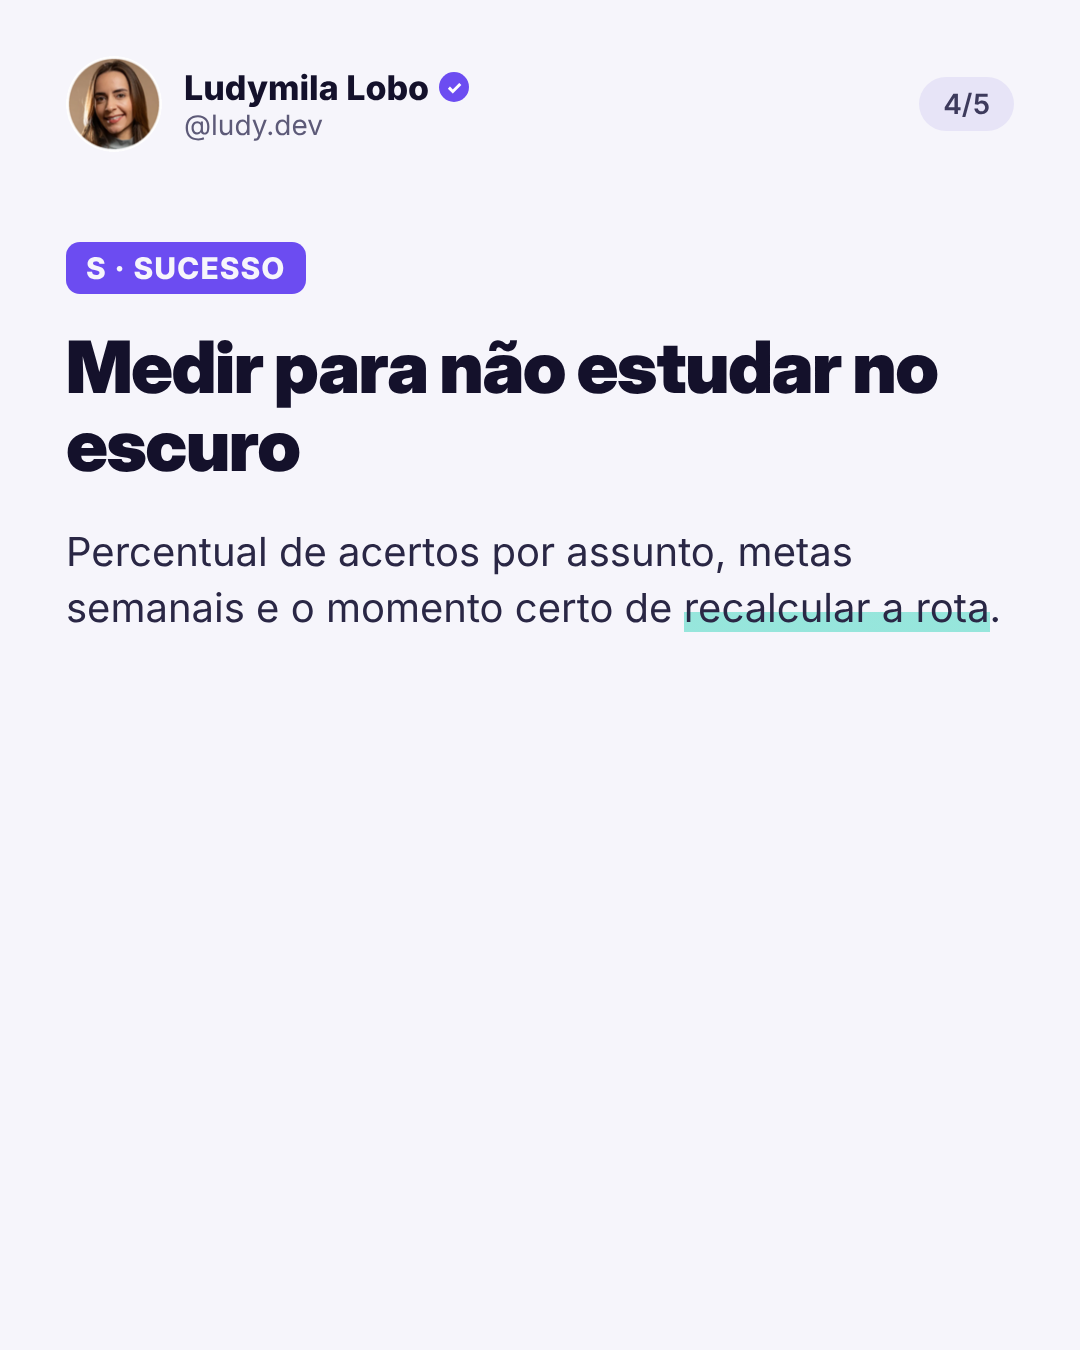
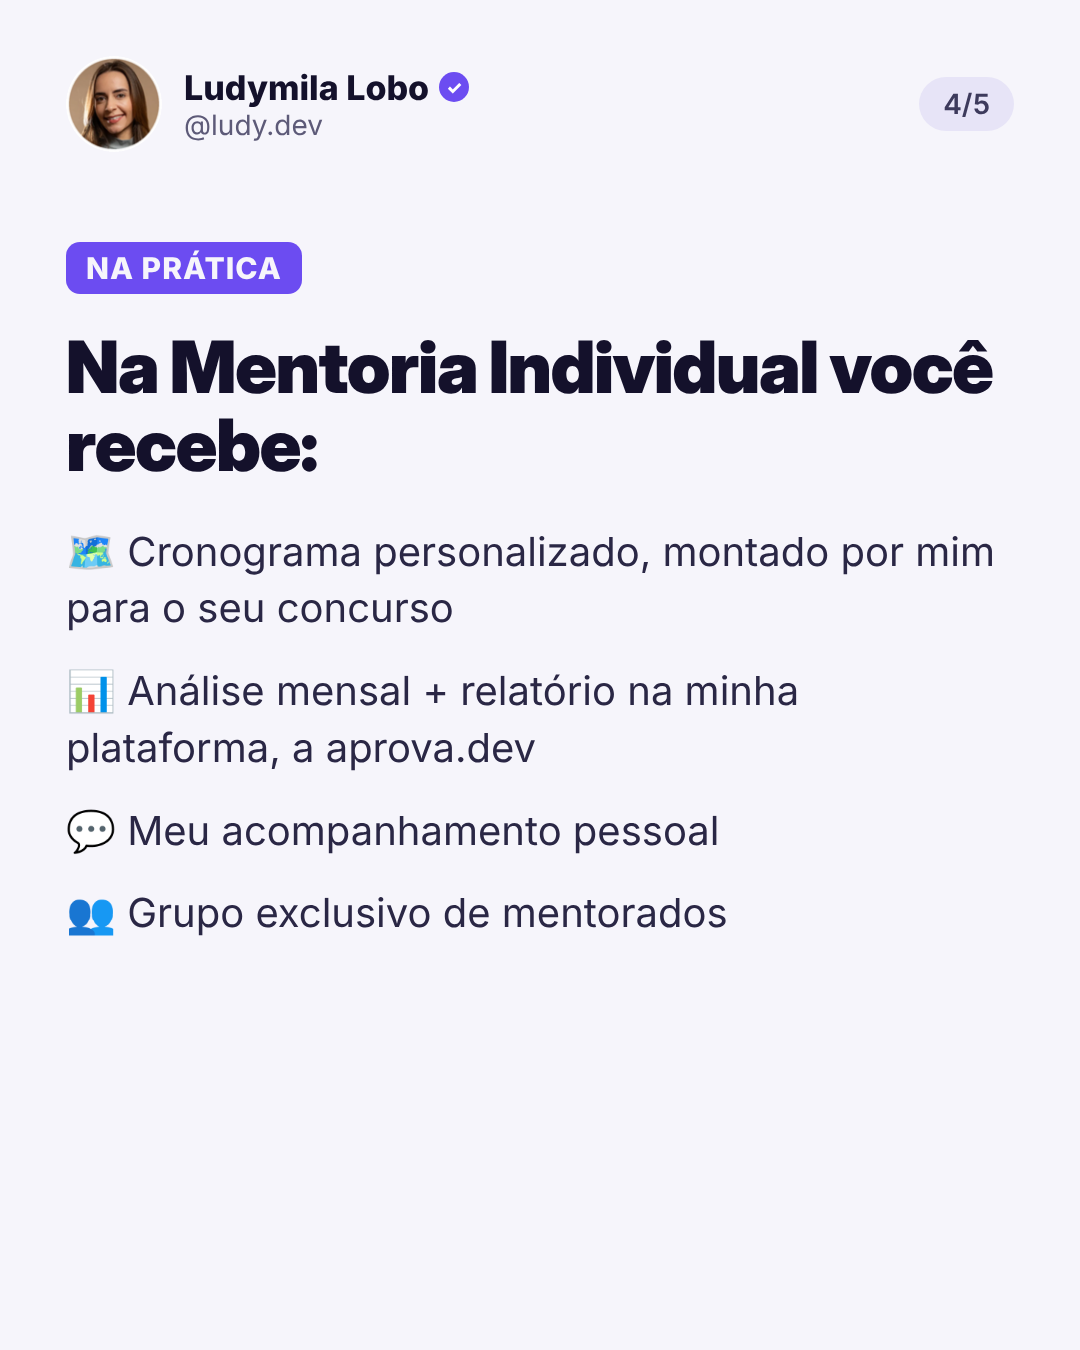
Posts de 19/10: bônus PDFs/videoaulas, carrossel baseado nos slides da mentoria, foto da Ludy no post 3
Claude-Session: https://claude.ai/code/session_01PAmMNyTervBqrWDZUP7Uz7

Changed region(s): [[0.0611, 0.2489, 0.9167, 0.4667], [0.0611, 0.4978, 0.7333, 0.7156], [0.0611, 0.1867, 0.3056, 0.2178]]

diff --git a/_ferramentas/mentoria_1910.py b/_ferramentas/mentoria_1910.py
@@ -7,18 +7,18 @@ p1 = [page_a(badge() + """
 <h1>Último dia: <span class="v">Mentoria Individual</span> e bônus <span class="c">encerram hoje</span></h1>
 <div class="card"><div class="k">Só até hoje, 19/10</div>
 <div class="d">📲 Acompanhamento direto comigo pelo WhatsApp<br>
-📚 Português, Inglês, RLM, Constitucional e Administrativo<br>
+📚 PDFs e videoaulas dos principais assuntos de TI<br>
 💳 Condições especiais no pagamento, com bônus exclusivos</div></div>
 <div class="sub">Live hoje às 20h (Brasília) no grupo VIP · Comenta <b style="color:#22D3B6">GPS</b> que eu te mando o link</div>
 """, photo="fotos/ampulheta-1.jpg")]
 
-# POST 2 — 12h · carrossel · estilo B (tweet): o que vou mostrar na live / GPS na prática
+# POST 2 — 12h · carrossel · estilo B (tweet): o que ela mostra na live (baseado nos slides da Mentoria Individual GPS)
 T2 = 5
 p2 = [
- page_b('<span class="tag">LIVE HOJE · 20H (BRASÍLIA)</span><h1>Hoje eu vou abrir como monto um <span class="v">cronograma de estudos</span> do zero.</h1><div class="lead">O mesmo método que me aprovou como analista de TI em um tribunal federal →</div>', 1, T2),
- page_b('<span class="tag">G · GUIA</span><h2>Antes de estudar, escolher o destino</h2><p>Tribunais, controle, bancos ou área fiscal? Cada caminho cobra coisas diferentes. Na live eu mostro como escolher o seu <span class="hl">a partir do edital</span>, e não do achismo.</p>', 2, T2),
- page_b('<span class="tag">P · PLANEJAMENTO</span><h2>Um cronograma que cabe na sua rotina</h2><p>Peso de cada matéria, horas que você realmente tem e revisões programadas. Vou montar um <span class="hl">exemplo ao vivo</span>.</p>', 3, T2),
- page_b('<span class="tag">S · SUCESSO</span><h2>Medir para não estudar no escuro</h2><p>Percentual de acertos por assunto, metas semanais e o momento certo de <span class="hl">recalcular a rota</span>.</p>', 4, T2),
+ page_b('<span class="tag">LIVE HOJE · 20H (BRASÍLIA)</span><h1>Hoje eu abro tudo sobre a <span class="v">Mentoria Individual GPS</span>.</h1><div class="lead">E por que um plano genérico não te leva até a aprovação →</div>', 1, T2),
+ page_b('<span class="tag">O PROBLEMA</span><h2>O que mais atrasa a aprovação em TI</h2><p><b>01.</b> Perder tempo decidindo o que estudar</p><p><b>02.</b> Estudar muito o que <span class="hl">quase não cai</span></p><p><b>03.</b> Não saber onde está errando</p>', 2, T2),
+ page_b('<span class="tag">O MÉTODO GPS</span><h2>Autoconhecimento é o que separa quem passa</h2><p>🔍 <b>Onde você está:</b> seus pontos fortes e, principalmente, os fracos</p><p>🧭 <b>Para onde vai:</b> a rota até o seu concurso e a sua meta</p><p>⚙ <b>Recalculando:</b> seu desempenho mostra o desvio, e a gente <span class="hl">ajusta a rota</span></p>', 3, T2),
+ page_b('<span class="tag">NA PRÁTICA</span><h2>Na Mentoria Individual você recebe:</h2><p>🗺 Cronograma personalizado, montado por mim para o seu concurso</p><p>📊 Análise mensal + relatório na minha plataforma, a aprova.dev</p><p>💬 Meu acompanhamento pessoal</p><p>👥 Grupo exclusivo de mentorados</p>', 4, T2),
  page_b('<h2>É hoje.</h2><div class="box">📅 <b>Live:</b> hoje, 19/10, às 20h (horário de Brasília), exclusiva para o grupo VIP<br><br>⏳ <b>Mentoria Individual e bônus:</b> encerram hoje<br><br>Comenta <b>GPS</b> que eu te mando o link do grupo VIP.</div>', 5, T2),
 ]
 
@@ -26,10 +26,10 @@ p2 = [
 p3 = [page_a(badge() + """
 <h1>A live é <span class="c">hoje</span>, às <span class="v">20h</span> de Brasília</h1>
 <div class="sub" style="margin-top:20px">Exclusiva para o grupo VIP</div>
-<div class="card"><div class="t">Como funciona a Mentoria Individual + como eu monto o cronograma com o método GPS</div>
+<div class="card"><div class="t">Tudo sobre a Mentoria Individual GPS: o método, o acompanhamento e a plataforma</div>
 <div class="d">E hoje é o último dia das inscrições e do bônus.</div></div>
 <div class="sub">Comenta <b style="color:#22D3B6">GPS</b> e entra no grupo agora para receber o link.</div>
-""", photo="fotos/camera-tripe.jpg")]
+""", photo="fotos/ludy-sentada-azul.jpg")]
 
 render(p1, OUT + "/post-1")
 render(p2, OUT + "/post-2")
